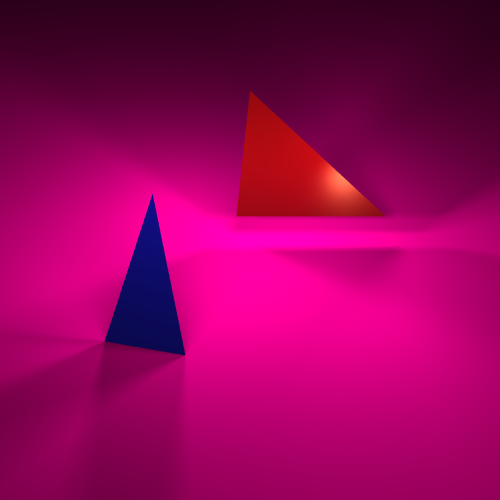
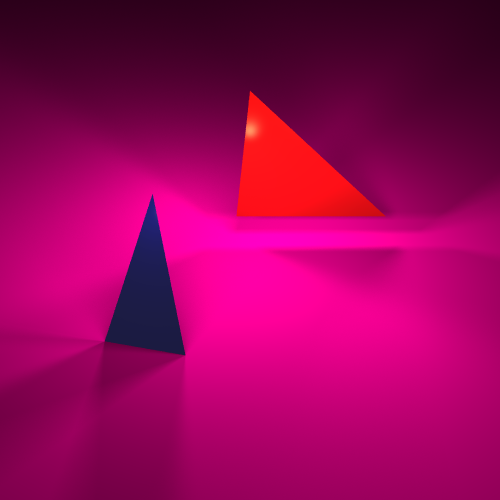
fix specular

Changed region(s): [[0.45, 0.18, 0.78, 0.45], [0.24, 0.48, 0.36, 0.6], [0.3, 0.42, 0.33, 0.45]]

diff --git a/src/Objects/Surface.java b/src/Objects/Surface.java
@@ -50,14 +50,14 @@ public abstract class Surface {
 			Vector v = new Vector(light.getPosition().getX() - point.getX(), light.getPosition().getY() - point.getY(), light.getPosition().getZ() - point.getZ());
 			
 			Ray rayToLight = new Ray(point, v);
-				
-			float Ir = (1-getMaterial().getTransparency())*(Math.abs(light.getDiffuseColorR(point, this, rayToLight)) +  Math.abs(light.getSpecularColorR(point, this, rayToLight, ray)));
-			float Ig = (1-getMaterial().getTransparency())*(Math.abs(light.getDiffuseColorG(point, this, rayToLight)) +  Math.abs(light.getSpecularColorG(point, this, rayToLight, ray)));
-			float Ib = (1-getMaterial().getTransparency())*(Math.abs(light.getDiffuseColorB(point, this, rayToLight)) +  Math.abs(light.getSpecularColorB(point, this, rayToLight, ray)));
-			float softShadows;
-
 			Vector v1 = new Vector(light.getPosition(), point);
 			Ray rayFromLight = new Ray(light.getPosition(), v1);
+
+			float Ir = (1-getMaterial().getTransparency())*(Math.abs(light.getDiffuseColorR(point, this, rayToLight)) +  Math.abs(light.getSpecularColorR(point, this, rayToLight, rayFromLight, ray)));
+			float Ig = (1-getMaterial().getTransparency())*(Math.abs(light.getDiffuseColorG(point, this, rayToLight)) +  Math.abs(light.getSpecularColorG(point, this, rayToLight, rayFromLight, ray)));
+			float Ib = (1-getMaterial().getTransparency())*(Math.abs(light.getDiffuseColorB(point, this, rayToLight)) +  Math.abs(light.getSpecularColorB(point, this, rayToLight, rayFromLight, ray)));
+			float softShadows;
+
 			
 			if(scene.getShadowRaysNumber() == 1)
 			{

diff --git a/src/Objects/Light.java b/src/Objects/Light.java
@@ -72,23 +72,24 @@ public class Light {
 
 	}
 	
-	public float getSpecularColorR(Point point, Surface surface, Ray rayToLight, Ray rayFromViewer) 
+	public float getSpecularColorR(Point point, Surface surface, Ray rayToLight, Ray rayFromLight, Ray rayFromViewer) 
 	{
-		Ray R = surface.getReflectedRay(rayToLight,point);
+		
+		Ray R = surface.getReflectedRay(rayFromLight,point);
 
 		return (float) (surface.getMaterial().sr * Math.pow(rayFromViewer.getVector().dotProduct(R.getVector()), surface.getMaterial().getPhong())*this.getR()*specularIntensity);
 	}
 	
-	public float getSpecularColorG(Point point, Surface surface, Ray rayToLight, Ray rayFromViewer) 
+	public float getSpecularColorG(Point point, Surface surface, Ray rayToLight, Ray rayFromLight, Ray rayFromViewer) 
 	{
-		Ray R = surface.getReflectedRay(rayToLight,point);
+		Ray R = surface.getReflectedRay(rayFromLight,point);
 
 		return (float) (surface.getMaterial().sg * Math.pow(rayFromViewer.getVector().dotProduct(R.getVector()), surface.getMaterial().getPhong())*this.getG()*specularIntensity);
 	}
 	
-	public float getSpecularColorB(Point point, Surface surface, Ray rayToLight, Ray rayFromViewer) 
+	public float getSpecularColorB(Point point, Surface surface, Ray rayToLight, Ray rayFromLight, Ray rayFromViewer) 
 	{
-		Ray R = surface.getReflectedRay(rayToLight,point);
+		Ray R = surface.getReflectedRay(rayFromLight,point);
 
 		return (float) (surface.getMaterial().sb * Math.pow(rayFromViewer.getVector().dotProduct(R.getVector()), surface.getMaterial().getPhong())*this.getB()*specularIntensity);
 	}
